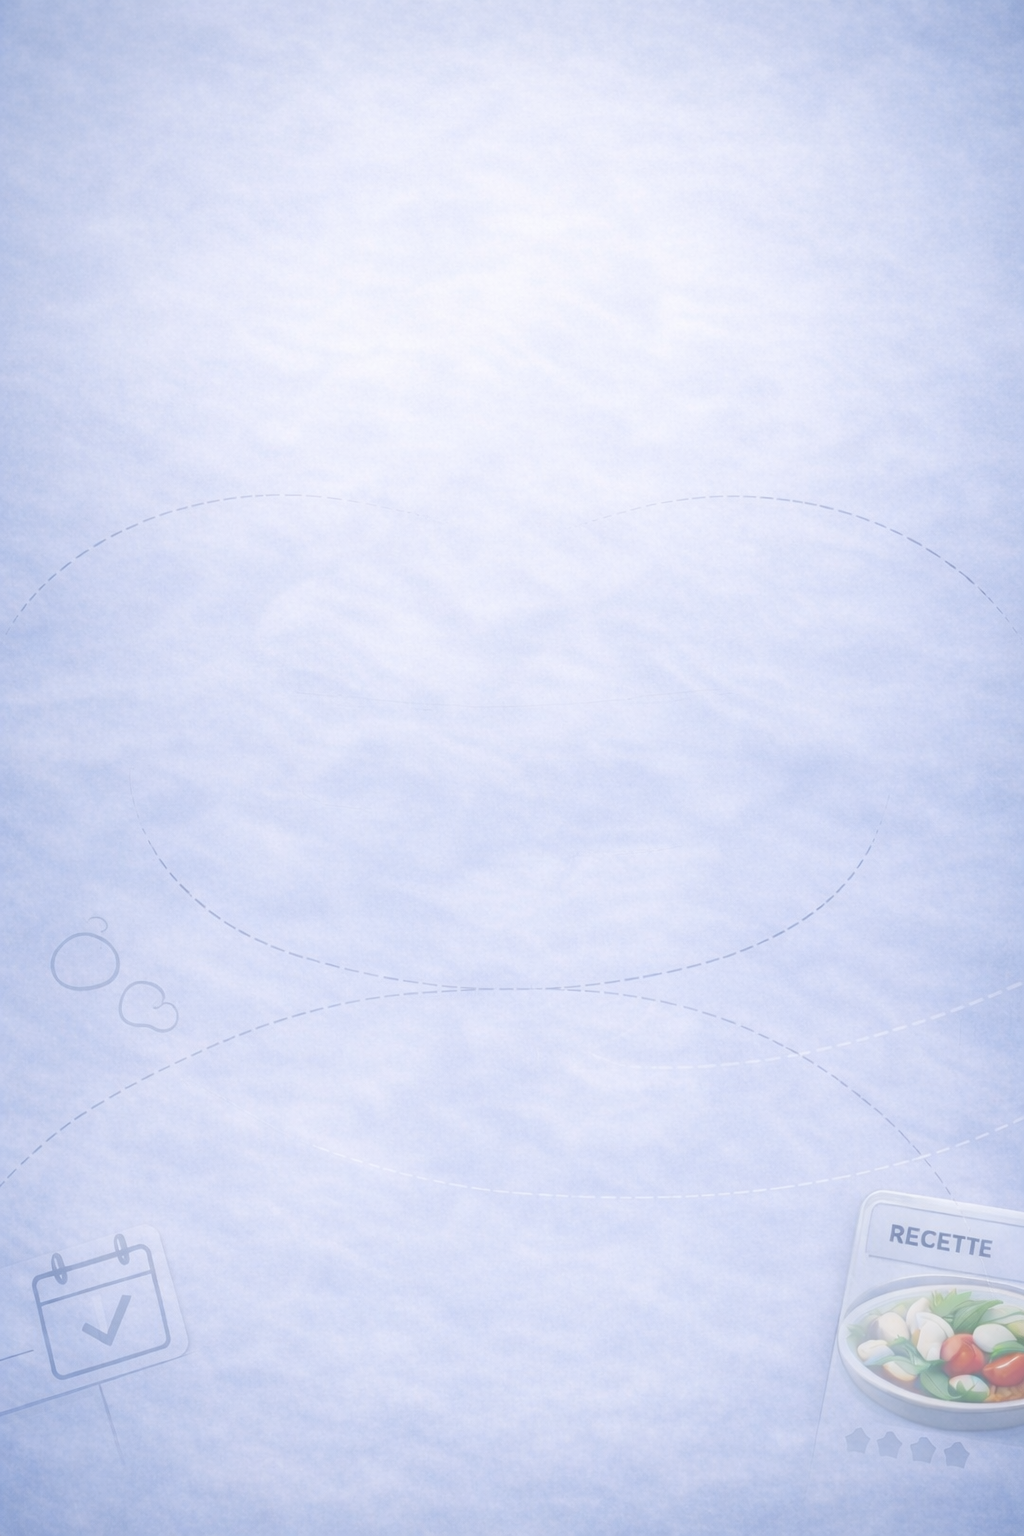
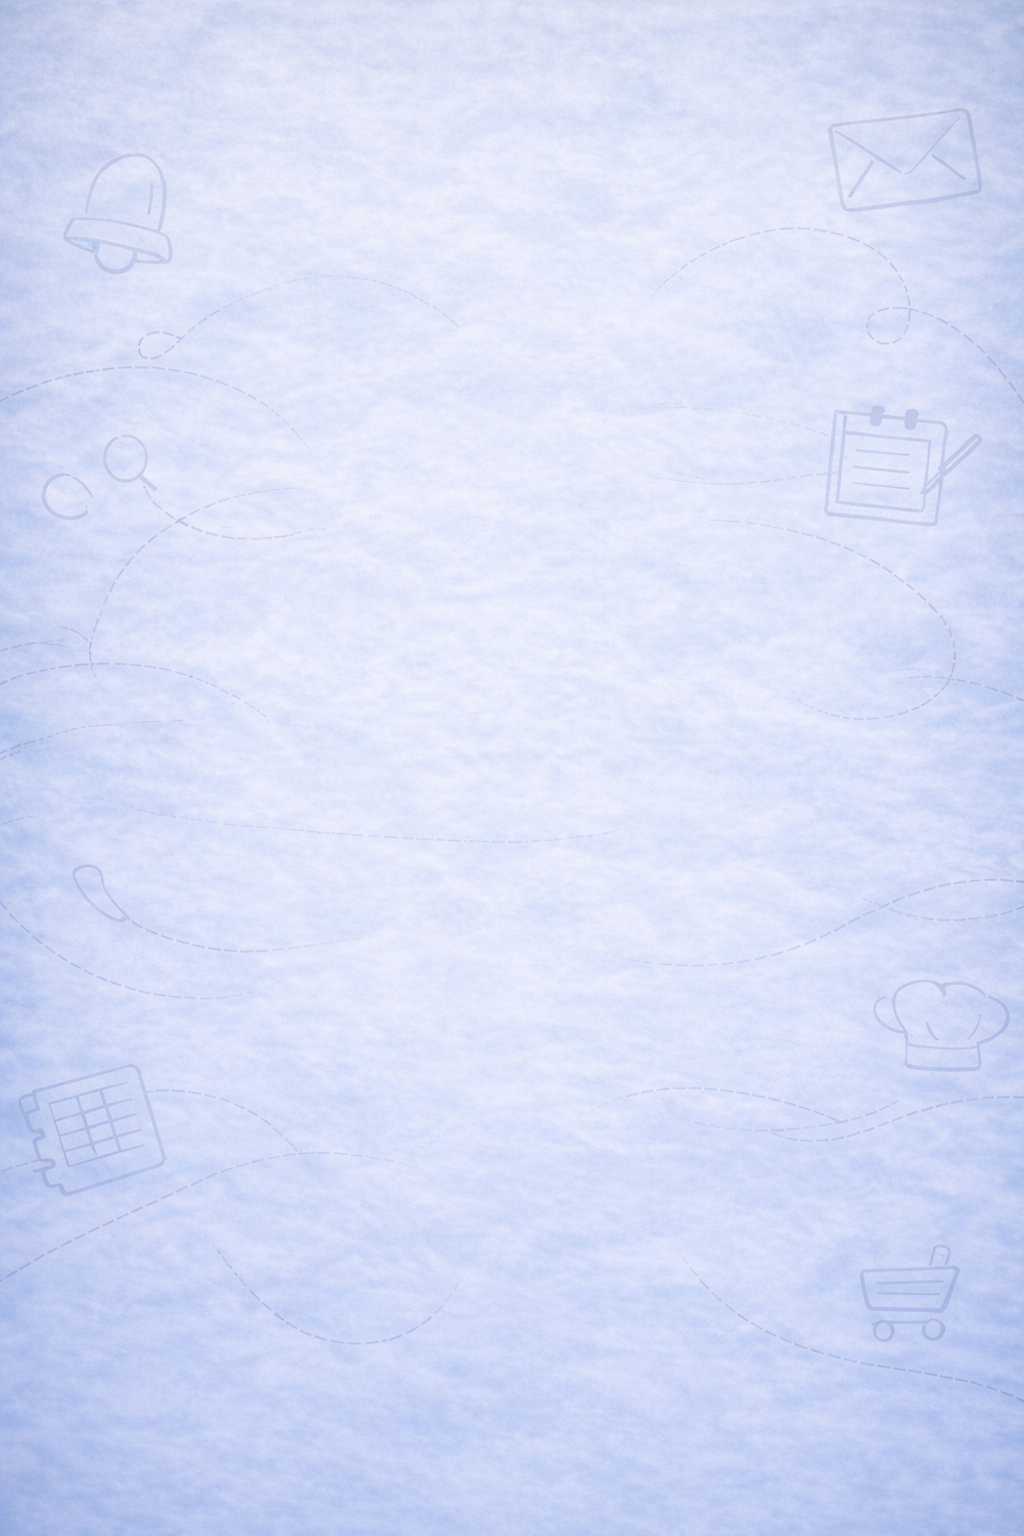
Add fond ecran

diff --git a/frontend/app/(tabs)/recipes.tsx b/frontend/app/(tabs)/recipes.tsx
@@ -1,6 +1,6 @@
 import React, { useEffect, useMemo } from 'react';
 import { SafeAreaView } from 'react-native-safe-area-context';
-import { View, Text, StyleSheet, FlatList, TouchableOpacity, Image } from 'react-native';
+import { View, Text, StyleSheet, FlatList, TouchableOpacity, Image, ImageBackground } from 'react-native';
 import Ionicons from '@expo/vector-icons/Ionicons';
 import { useRouter } from 'expo-router';
 import { useFocusEffect } from '@react-navigation/native';
@@ -164,6 +164,7 @@ export default function RecipesScreen() {
   }, [activeFilter, activeStockCount, hasTargetItems, isLoading, suggestLaterByFilter, t]);
 
   return (
+    <ImageBackground source={require('../../assets/images/KeepEat_fond.png')} style={styles.bgImage} resizeMode="cover">
     <SafeAreaView style={styles.container}>
       <View style={styles.header}>
         <Text style={styles.title}>Recettes</Text>
@@ -268,10 +269,12 @@ export default function RecipesScreen() {
         />
       )}
     </SafeAreaView>
+    </ImageBackground>
   );
 }
 
 const createStyles = (C: ReturnType<typeof getThemeColors>, T: ReturnType<typeof getThemeText>) => StyleSheet.create({
+  bgImage: { flex: 1 },
   container: { flex: 1, backgroundColor: 'transparent' },
   header: { paddingHorizontal: 16, paddingTop: 8, paddingBottom: 8 },
   title: { fontSize: 24, fontWeight: '800', color: C.text },

diff --git a/frontend/app/(tabs)/stock.tsx b/frontend/app/(tabs)/stock.tsx
@@ -1,6 +1,6 @@
 import React, { useEffect, useMemo, useState } from 'react';
 import { SafeAreaView, useSafeAreaInsets } from 'react-native-safe-area-context';
-import { View, Text, StyleSheet, TouchableOpacity, FlatList, Image, Alert, TextInput } from 'react-native';
+import { View, Text, StyleSheet, TouchableOpacity, FlatList, Image, Alert, TextInput, ImageBackground } from 'react-native';
 import { useRouter } from 'expo-router';
 import Ionicons from '@expo/vector-icons/Ionicons';
 import { Swipeable } from 'react-native-gesture-handler';
@@ -169,6 +169,7 @@ export default function StockScreen() {
   );
 
   return (
+    <ImageBackground source={require('../../assets/images/KeepEat_fond.png')} style={styles.bgImage} resizeMode="cover">
     <SafeAreaView style={styles.container}>
       <View style={styles.header}>
         <View style={styles.titleRow}>
@@ -300,10 +301,12 @@ export default function StockScreen() {
         />
       )}
     </SafeAreaView>
+    </ImageBackground>
   );
 }
 
 const createStyles = (C: ReturnType<typeof getThemeColors>, T: ReturnType<typeof getThemeText>) => StyleSheet.create({
+  bgImage: { flex: 1 },
   container: { flex: 1, backgroundColor: 'transparent' },
   header: { paddingHorizontal: 16, paddingTop: 8, paddingBottom: 10 },
   titleRow: { flexDirection: 'row', alignItems: 'center', gap: 8 },

diff --git a/frontend/app/(tabs)/index.tsx b/frontend/app/(tabs)/index.tsx
@@ -1,6 +1,6 @@
 import React, { useEffect, useMemo } from 'react';
 import { SafeAreaView } from 'react-native-safe-area-context';
-import { View, Text, StyleSheet, ScrollView, TouchableOpacity, Image } from 'react-native';
+import { View, Text, StyleSheet, ScrollView, TouchableOpacity, Image, ImageBackground } from 'react-native';
 import { useRouter } from 'expo-router';
 import Ionicons from '@expo/vector-icons/Ionicons';
 import { useStockStore } from '../../store/stockStore';
@@ -81,6 +81,7 @@ export default function HomeDashboardScreen() {
   }, []);
 
   return (
+    <ImageBackground source={require('../../assets/images/KeepEat_fond.png')} style={styles.bgImage} resizeMode="cover">
     <SafeAreaView style={styles.container}>
       <ScrollView style={styles.scroll} contentContainerStyle={styles.content} showsVerticalScrollIndicator={false}>
         <View style={styles.headerRow}>
@@ -196,10 +197,12 @@ export default function HomeDashboardScreen() {
         </View>
       </ScrollView>
     </SafeAreaView>
+    </ImageBackground>
   );
 }
 
 const createStyles = (C: ReturnType<typeof getThemeColors>, T: ReturnType<typeof getThemeText>) => StyleSheet.create({
+  bgImage: { flex: 1 },
   container: { flex: 1, backgroundColor: 'transparent' },
   scroll: { flex: 1 },
   content: { padding: 16, gap: 12, paddingBottom: 28 },

diff --git a/frontend/app/(tabs)/stats.tsx b/frontend/app/(tabs)/stats.tsx
@@ -7,6 +7,7 @@ import {
   ScrollView,
   ActivityIndicator,
   RefreshControl,
+  ImageBackground,
 } from 'react-native';
 import { SafeAreaView } from 'react-native-safe-area-context';
 import Ionicons from '@expo/vector-icons/Ionicons';
@@ -134,6 +135,7 @@ export default function StatsScreen() {
   const bestMonth = [...chartData].sort((a, b) => b.score - a.score)[0];
 
   return (
+    <ImageBackground source={require('../../assets/images/KeepEat_fond.png')} style={styles.bgImage} resizeMode="cover">
     <SafeAreaView style={styles.container}>
 
       {/* Header */}
@@ -329,10 +331,12 @@ export default function StatsScreen() {
         </ScrollView>
       )}
     </SafeAreaView>
+    </ImageBackground>
   );
 }
 
 const createStyles = (C: ReturnType<typeof getThemeColors>, T: ReturnType<typeof getThemeText>) => StyleSheet.create({
+  bgImage: { flex: 1 },
   container: { flex: 1, backgroundColor: 'transparent' },
 
   // ── Header ──
